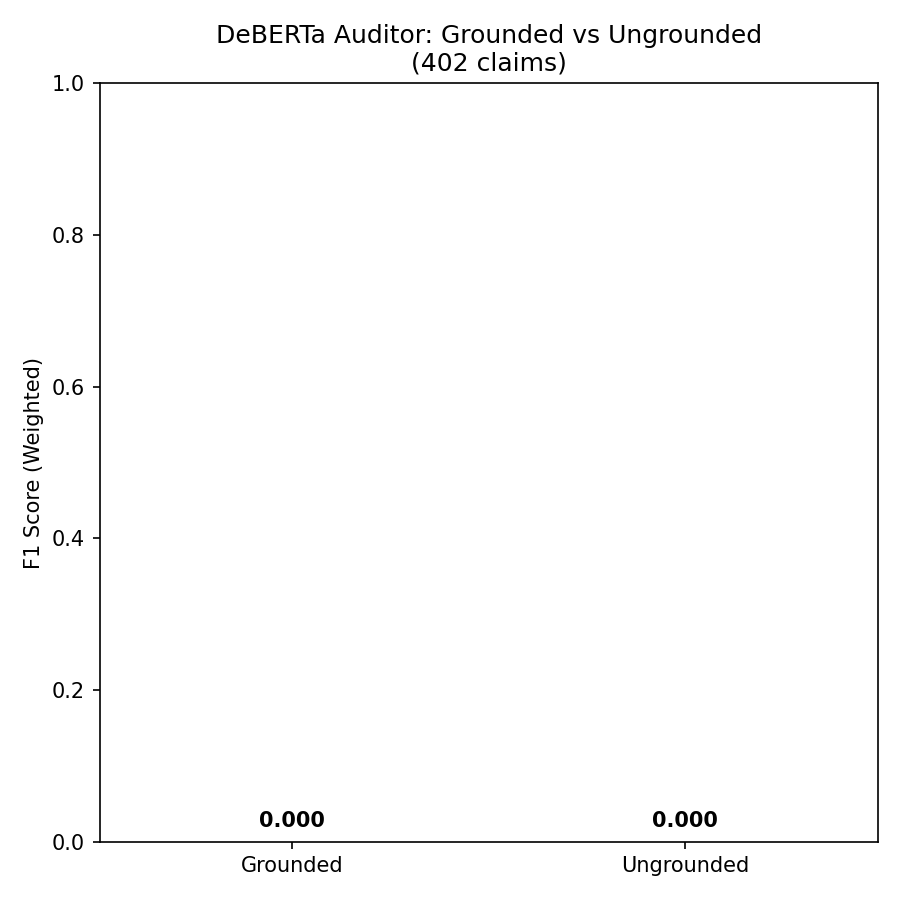
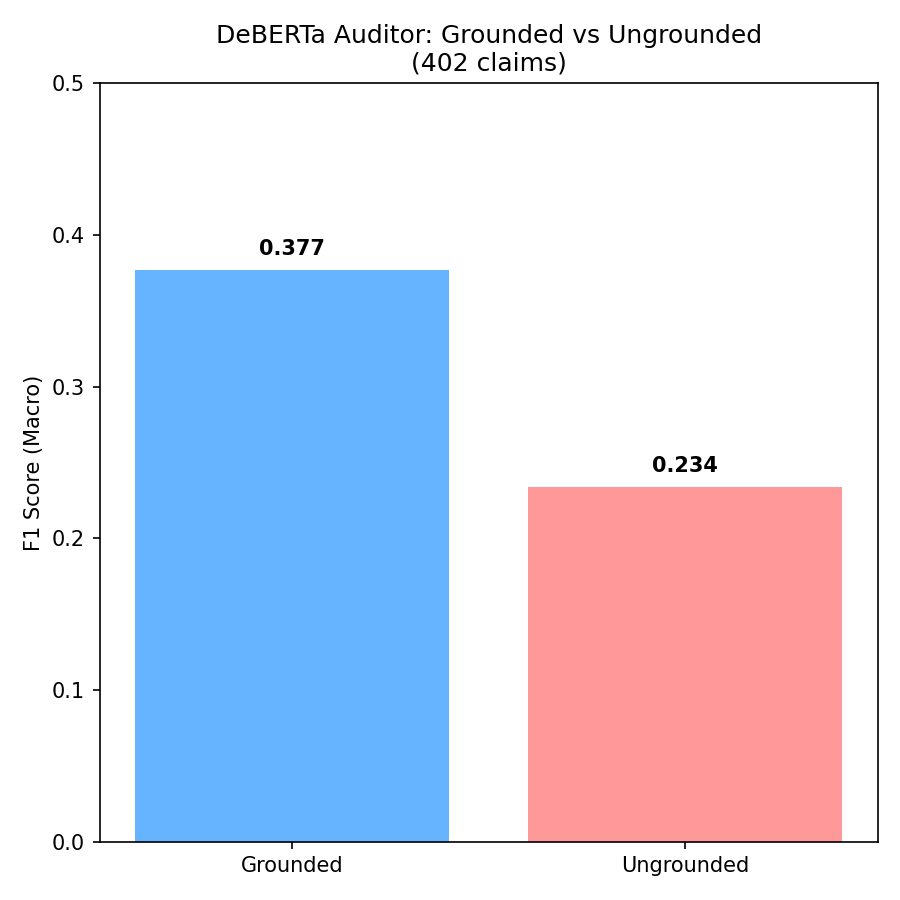
Fix grounded vs ungrounded F1 chart with correct values

diff --git a/src/member_b/final_visualizations.py b/src/member_b/final_visualizations.py
@@ -154,8 +154,8 @@ try:
     with open('results/eval/grounded_vs_ungrounded_all_claims.json', 'r') as f:
         g_data = json.load(f)
     
-    grounded_f1 = g_data.get('grounded', {}).get('f1_weighted', 0)
-    ungrounded_f1 = g_data.get('ungrounded', {}).get('f1_weighted', 0)
+    grounded_f1 = g_data.get('grounded_macro_f1', 0)
+    ungrounded_f1 = g_data.get('ungrounded_macro_f1', 0)
     
     print(f"   Grounded F1: {grounded_f1:.4f}")
     print(f"   Ungrounded F1: {ungrounded_f1:.4f}")
@@ -163,11 +163,11 @@ try:
     plt.figure(figsize=(6, 6))
     bars = plt.bar(['Grounded', 'Ungrounded'], [grounded_f1, ungrounded_f1],
                    color=['#66b3ff', '#ff9999'])
-    plt.ylim(0, 1)
-    plt.ylabel('F1 Score (Weighted)')
+    plt.ylim(0, 0.5)
+    plt.ylabel('F1 Score (Macro)')
     plt.title('DeBERTa Auditor: Grounded vs Ungrounded\n(402 claims)')
     for bar, f1 in zip(bars, [grounded_f1, ungrounded_f1]):
-        plt.text(bar.get_x() + bar.get_width()/2, bar.get_height() + 0.02,
+        plt.text(bar.get_x() + bar.get_width()/2, bar.get_height() + 0.01,
                  f'{f1:.3f}', ha='center', fontweight='bold')
     plt.tight_layout()
     plt.savefig('results/figures/final/grounded_vs_ungrounded_f1.png', dpi=150)
@@ -175,6 +175,8 @@ try:
     print("Saved: grounded_vs_ungrounded_f1.png")
 except FileNotFoundError:
     print("File not found: results/eval/grounded_vs_ungrounded_all_claims.json")
+except Exception as e:
+    print(f"Error: {e}")
 
 # 6. Copy SciFact confusion matrix
 print("\n6. Copying SciFact confusion matrix...")
